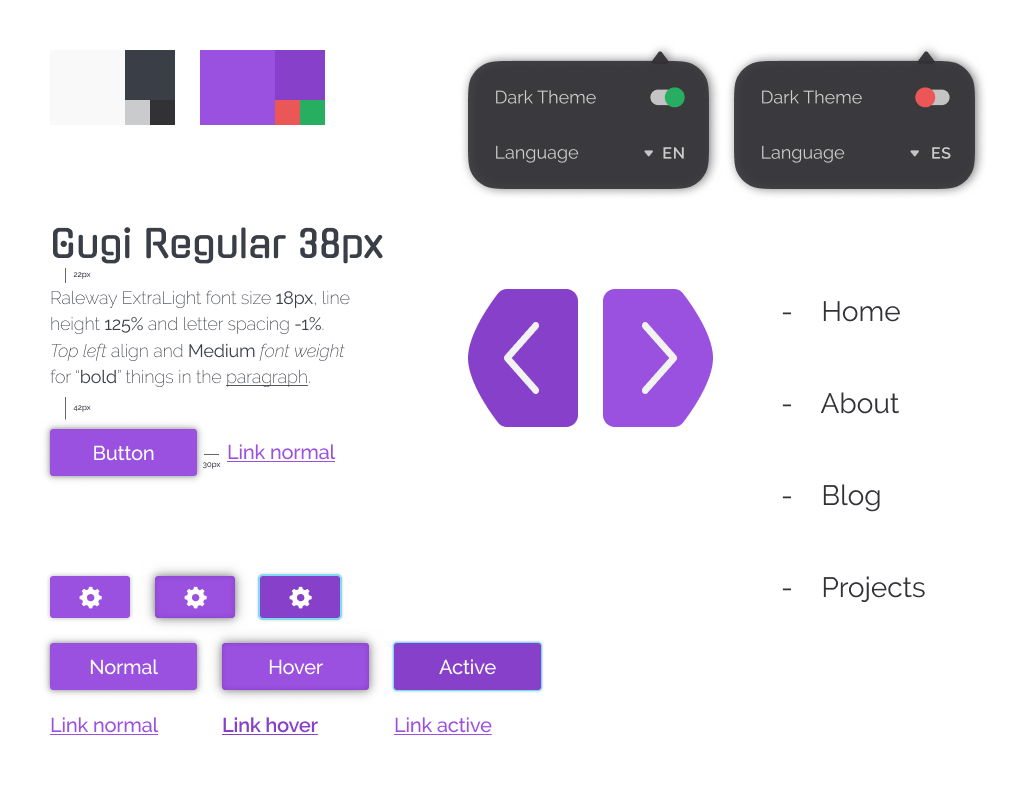
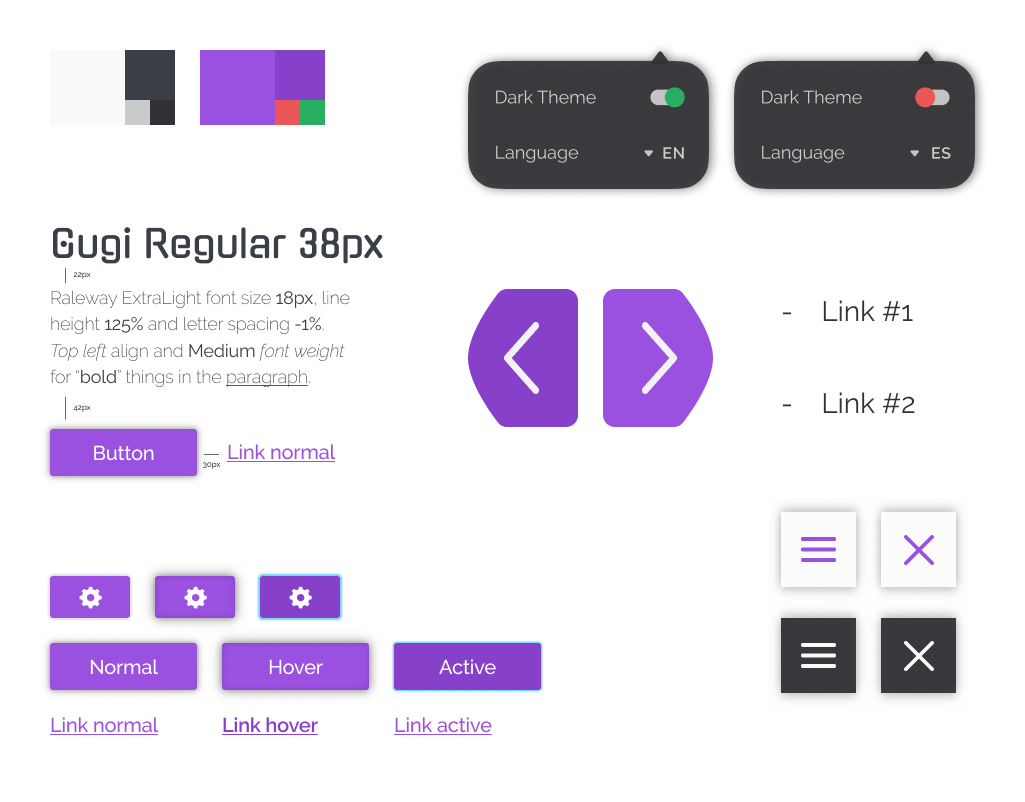
Some things I need to save D:

Changed region(s): [[0.7493, 0.5923, 0.9366, 0.8728], [0.8117, 0.4988, 0.9054, 0.5299], [0.8117, 0.3741, 0.9054, 0.4052]]

diff --git a/README.md b/README.md
@@ -1,24 +1,71 @@
 # My personal page 🎉
 
-`juandc.github.io === juandc.co *2.0*`
+`juandc.co@3.0.0`
 
- - [x] :tada: New Design
- - [ ] :man: About me section
- - [ ] :newspaper: Blog section
- - [ ] :man_student: Courses section
- - [ ] :thinking: External `assets` folder :question: 
+## Index
 
+* [Sections](#sections)
+  * [Home](#home)
+  * [About me](#about-me)
+  * [Blog](#blog)
+  * [Projects](#projects)
+  * [Education](#education)
+* [Design](#design)
+  * [Components](#components)
+  * [Pages](#pages)
+* [Development](#development)
+  * [Storybook](#storybook)
+  * [Website](#website)
+* [Future Features](#future-features)
 
-## Design proposal
+## Sections
 
-<img
-  alt="UI Kit"
-  src="https://github.com/juandc/juandc.github.io/blob/master/ui_kit.png"
-  width="750px"
-/>
+This are the sections :D
 
-<img
-  alt="Ultra small version"
-  src="https://github.com/juandc/juandc.github.io/blob/master/ultra_small.png"
-  width="750px"
-/>
+### Home
+
+bla bla bla
+
+### About me
+
+bla bla bla
+
+### Blog
+
+bla bla bla
+
+### Projects
+
+bla bla bla
+
+### Education
+
+bla bla bla
+
+## Design
+
+The Design Proposal :o
+
+* [ ] :repeat: **UI Kit**
+* [ ] :heavy*check_mark: **Ultra small** :: \_375x667 (iPhone 8)*
+* [ ] :heavy*check_mark: **Mobile** :: \_480x853 (custom)*
+* [ ] :cheese: **Tablet** :: _375x667 (iPad Pro portrait)_
+* [ ] :cheese: **Desktop** :: _375x667 (iPad Pro landscape)_
+* [ ] :confused: **Giant** :: _375x667 (iMac)_
+
+### Components
+
+* Component 1
+* Component 2
+* Component 3
+
+### Pages
+
+<img alt="Ultra small version" src="./ultra_small.png" width="750px" />
+<img alt="Mobile version" src="./mobile.png" width="750px" />
+<img alt="Tablet version" src="./tablet.png" width="750px" />
+<img alt="Desktop version" src="./desktop.png" width="750px" />
+
+## Future Features
+
+Big data!
